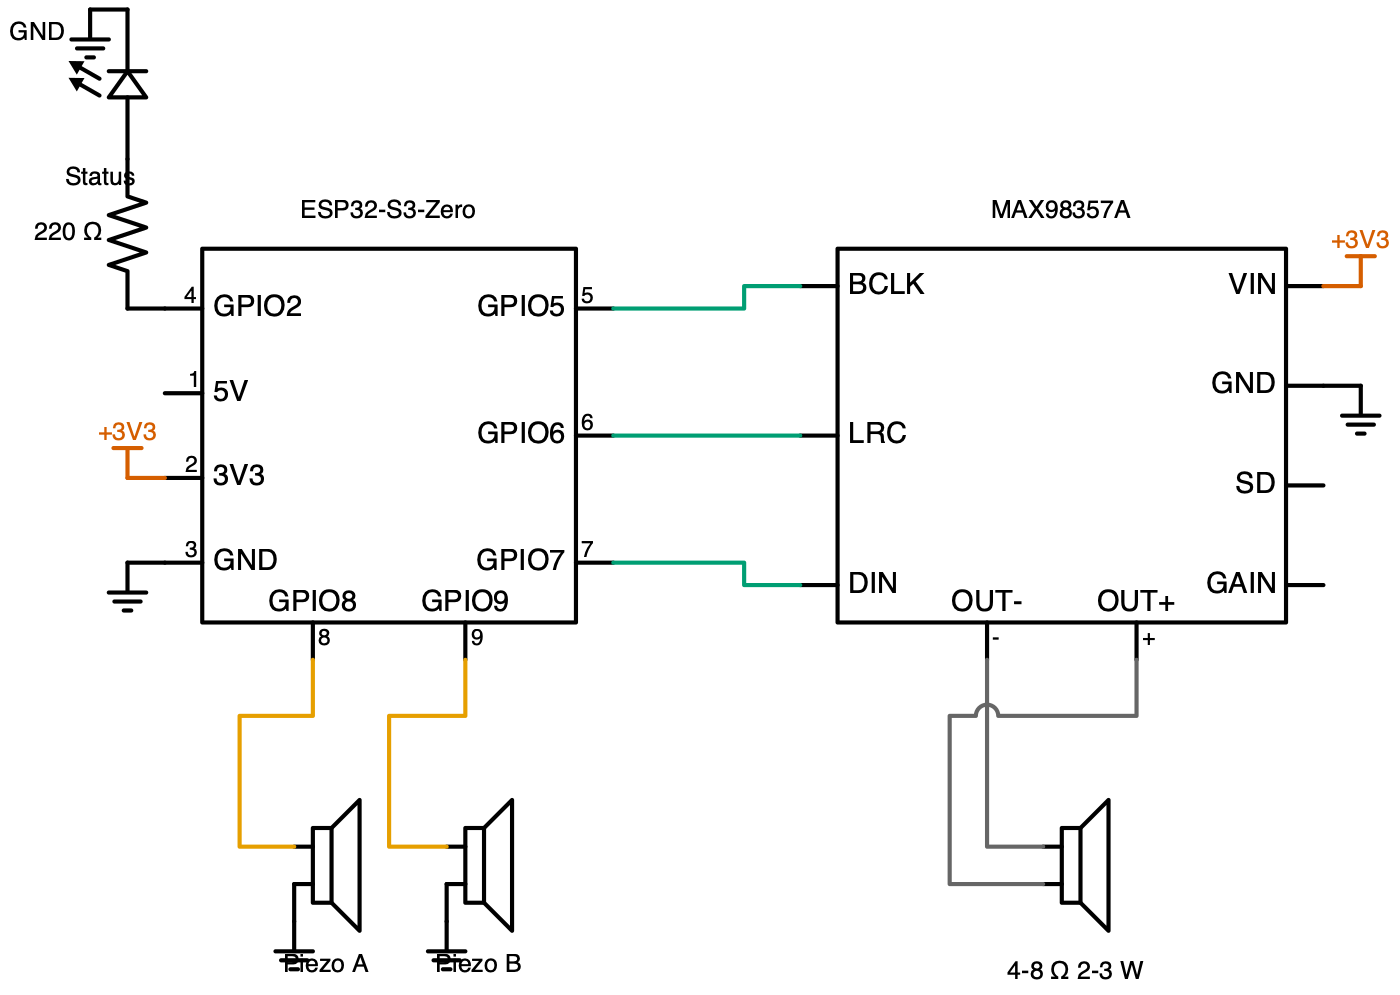
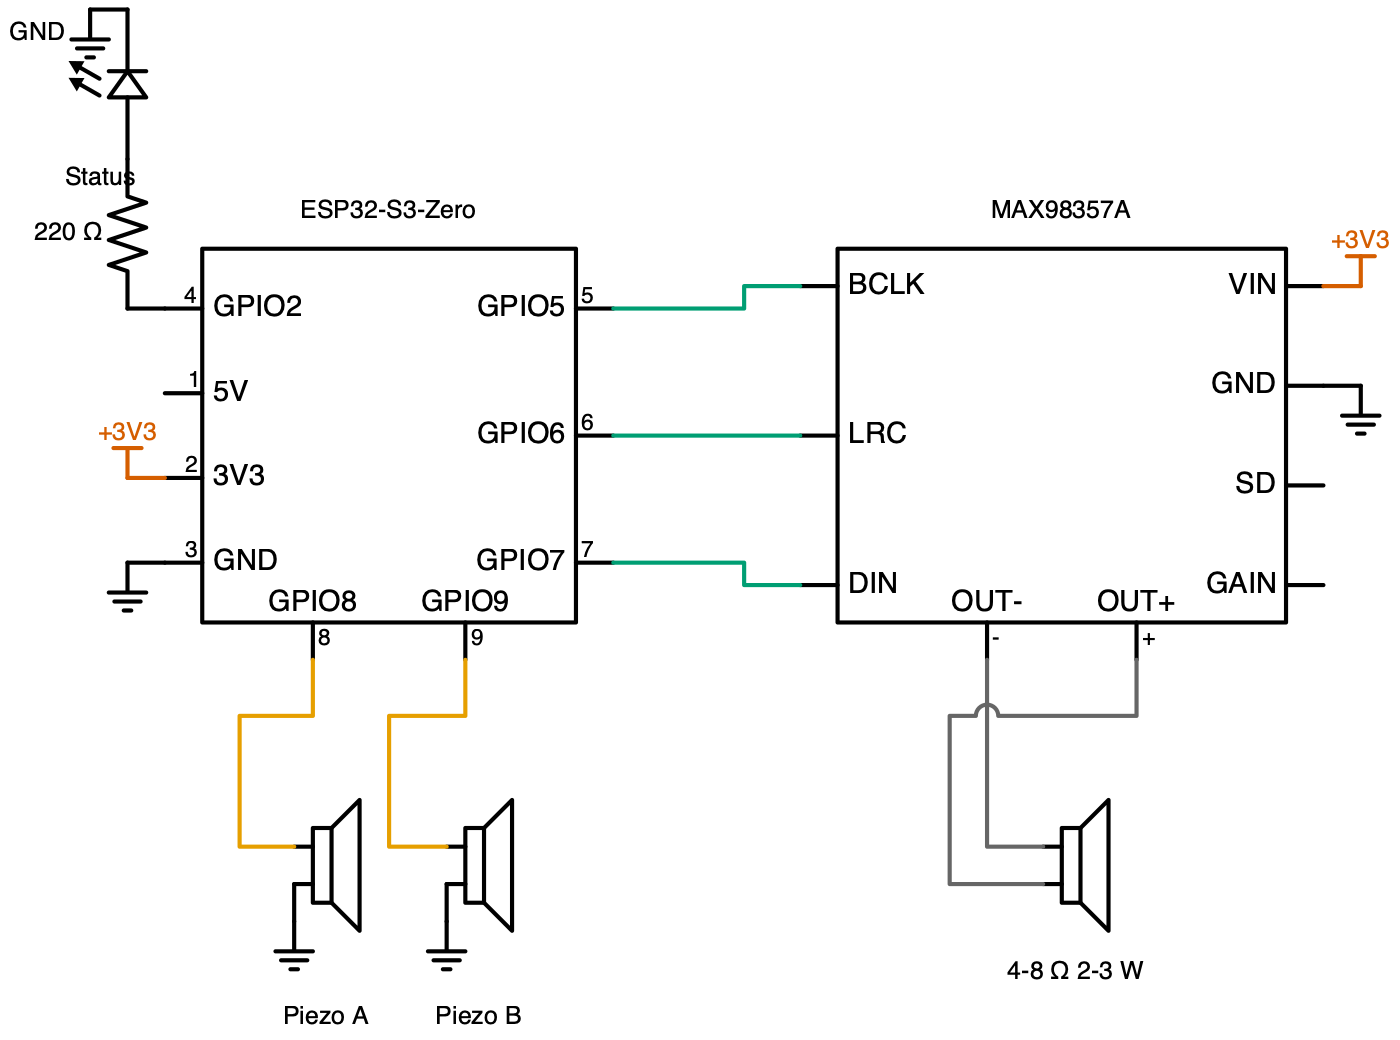
fix(schematics): lower the gamepad_synth piezo labels clear of the ground symbols
The ground stub under each piezo ran through the "P" of its label. The
label checks compare text boxes only, so they could not see it.
Also assert the #592 owning-box result for both box orderings.

Claude-Session: https://claude.ai/code/session_0127PZuQPKzZXmzLtCmYEp2C

diff --git a/docs/schematics/test_routing.py b/docs/schematics/test_routing.py
@@ -1557,9 +1557,10 @@ def test_a_pin_on_one_boxs_edge_is_owned_by_that_box_not_an_equal_one_it_is_insi
     b = _BBox(1.0, 0.0, 3.0, 2.0)
     pin = (1.0, 1.0)
     router = Router(schemdraw.Drawing())
-    owner = router._owning_box(pin, [a, b])
-    assert owner is b
-    assert router._exit_direction(pin, owner) == (-1.0, 0.0)
+    for boxes in ([a, b], [b, a]):
+        owner = router._owning_box(pin, boxes)
+        assert owner is b
+        assert router._exit_direction(pin, owner) == (-1.0, 0.0)
 
 
 def test_every_real_circuit_routes_no_wire_inside_a_component_body(real_circuits):

diff --git a/docs/schematics/circuits/gamepad_synth.py b/docs/schematics/circuits/gamepad_synth.py
@@ -44,13 +44,13 @@ def draw() -> schemdraw.Drawing:
         elm.Speaker()
         .right()
         .at((esp.GPIO8.x - 0.25, piezo_y))
-        .label("Piezo A", loc="bot", ofst=0.3)
+        .label("Piezo A", loc="bot", ofst=1.0)
     )
     pz_b = d.add(
         elm.Speaker()
         .right()
         .at((esp.GPIO9.x - 0.25, piezo_y))
-        .label("Piezo B", loc="bot", ofst=0.3)
+        .label("Piezo B", loc="bot", ofst=1.0)
     )
 
     # === Local stubs (power tags, LED branch, piezo grounds) stay
